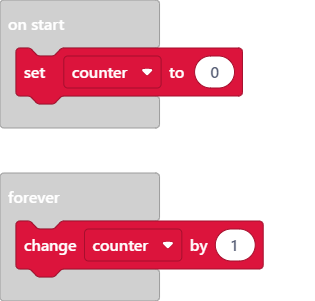
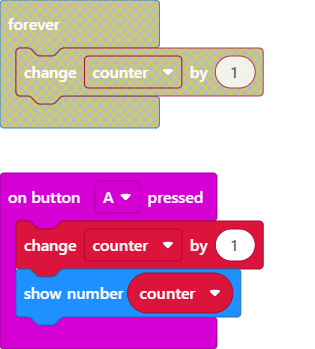
move the counter to a button press

diff --git a/main.ts b/main.ts
@@ -1,4 +1,6 @@
-let counter = 0
-basic.forever(function () {
+input.onButtonPressed(Button.A, function () {
     counter += 1
+    basic.showNumber(counter)
 })
+let counter = 0
+counter = 0
